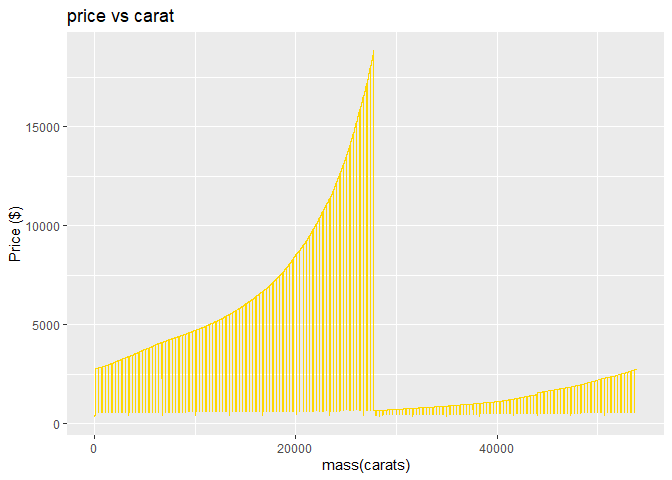
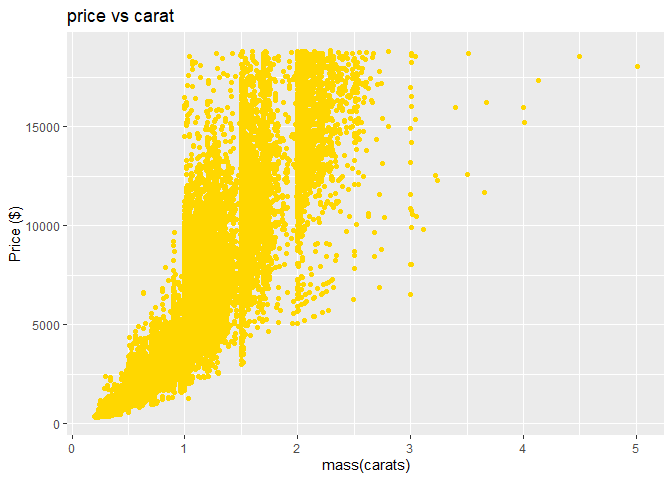
hw0 redo comp

diff --git a/challenges/c00-diamonds-assignment.md b/challenges/c00-diamonds-assignment.md
@@ -98,11 +98,11 @@ document your observations.
 ``` r
 ## TASK: Plot `price` vs `carat` below
 ## Your code here!
-library(ggplot2)
-ggplot(diamonds, aes(x=seq_along(carat), y=price))+
-  geom_line(color="gold")+
-  ggtitle("price vs carat")+
-  ylab("Price ($)")+
+
+diamonds %>% ggplot(aes(x = carat, y = price)) +
+  geom_point(color = "gold") +
+  ggtitle("price vs carat") +
+  ylab("Price ($)") +
   xlab("mass(carats)")
 ```
 
@@ -110,11 +110,9 @@ ggplot(diamonds, aes(x=seq_along(carat), y=price))+
 
 **Observations**: waow its urine yellow color :D
 
-i thought a line plot wouldnt have it go down all the time but im not
-sure if there are data points at zero between the actual data or if I
-misconfigured the settings.
-
-- (Write your observations here!)
+There seems to be a general trend upwards as carat increases so does
+price. Additionally a lot of data points tend to group up around the
+whole number carat weights. - (Write your observations here!)
 
 ### **q2** Create a visualization showing variables `carat`, `price`, and `cut` simultaneously. Experiment with which variable you assign to which aesthetic (`x`, `y`, etc.) to find an effective visual.
 
@@ -123,18 +121,18 @@ misconfigured the settings.
 ## Your code here!
 
 
-library(ggplot2)
-ggplot(diamonds, aes(x=carat, y=price, color=cut))+
-  geom_point()+
-  facet_wrap(~cut)+
-  ggtitle("Scatter Plot Faceted by Cylinders of price vs carat vs cut")+
+
+diamonds %>% ggplot(aes(x = carat, y = price, color = cut)) +
+  geom_point() +
+  facet_wrap(~cut) +
+  ggtitle("Scatter Plot Faceted by Cylinders of price vs carat vs cut") +
   ylab("price($)")
 ```
 
 ![](c00-diamonds-assignment_files/figure-gfm/q2-task-1.png)<!-- -->
 
 ``` r
-  xlab("mass(carat)")
+xlab("mass(carat)")
 ```
 
     ## $x
@@ -145,8 +143,9 @@ ggplot(diamonds, aes(x=carat, y=price, color=cut))+
 
 **Observations**:
 
-i was struggling to get proper labels working with the multi faceted
-plot.
+The plots generally seem to follow the trend displayed by the combined
+q1 graph. Notably fair seems to diverge slightly more then the rest and
+also has quite a few outliers.
 
 # Communication
 
